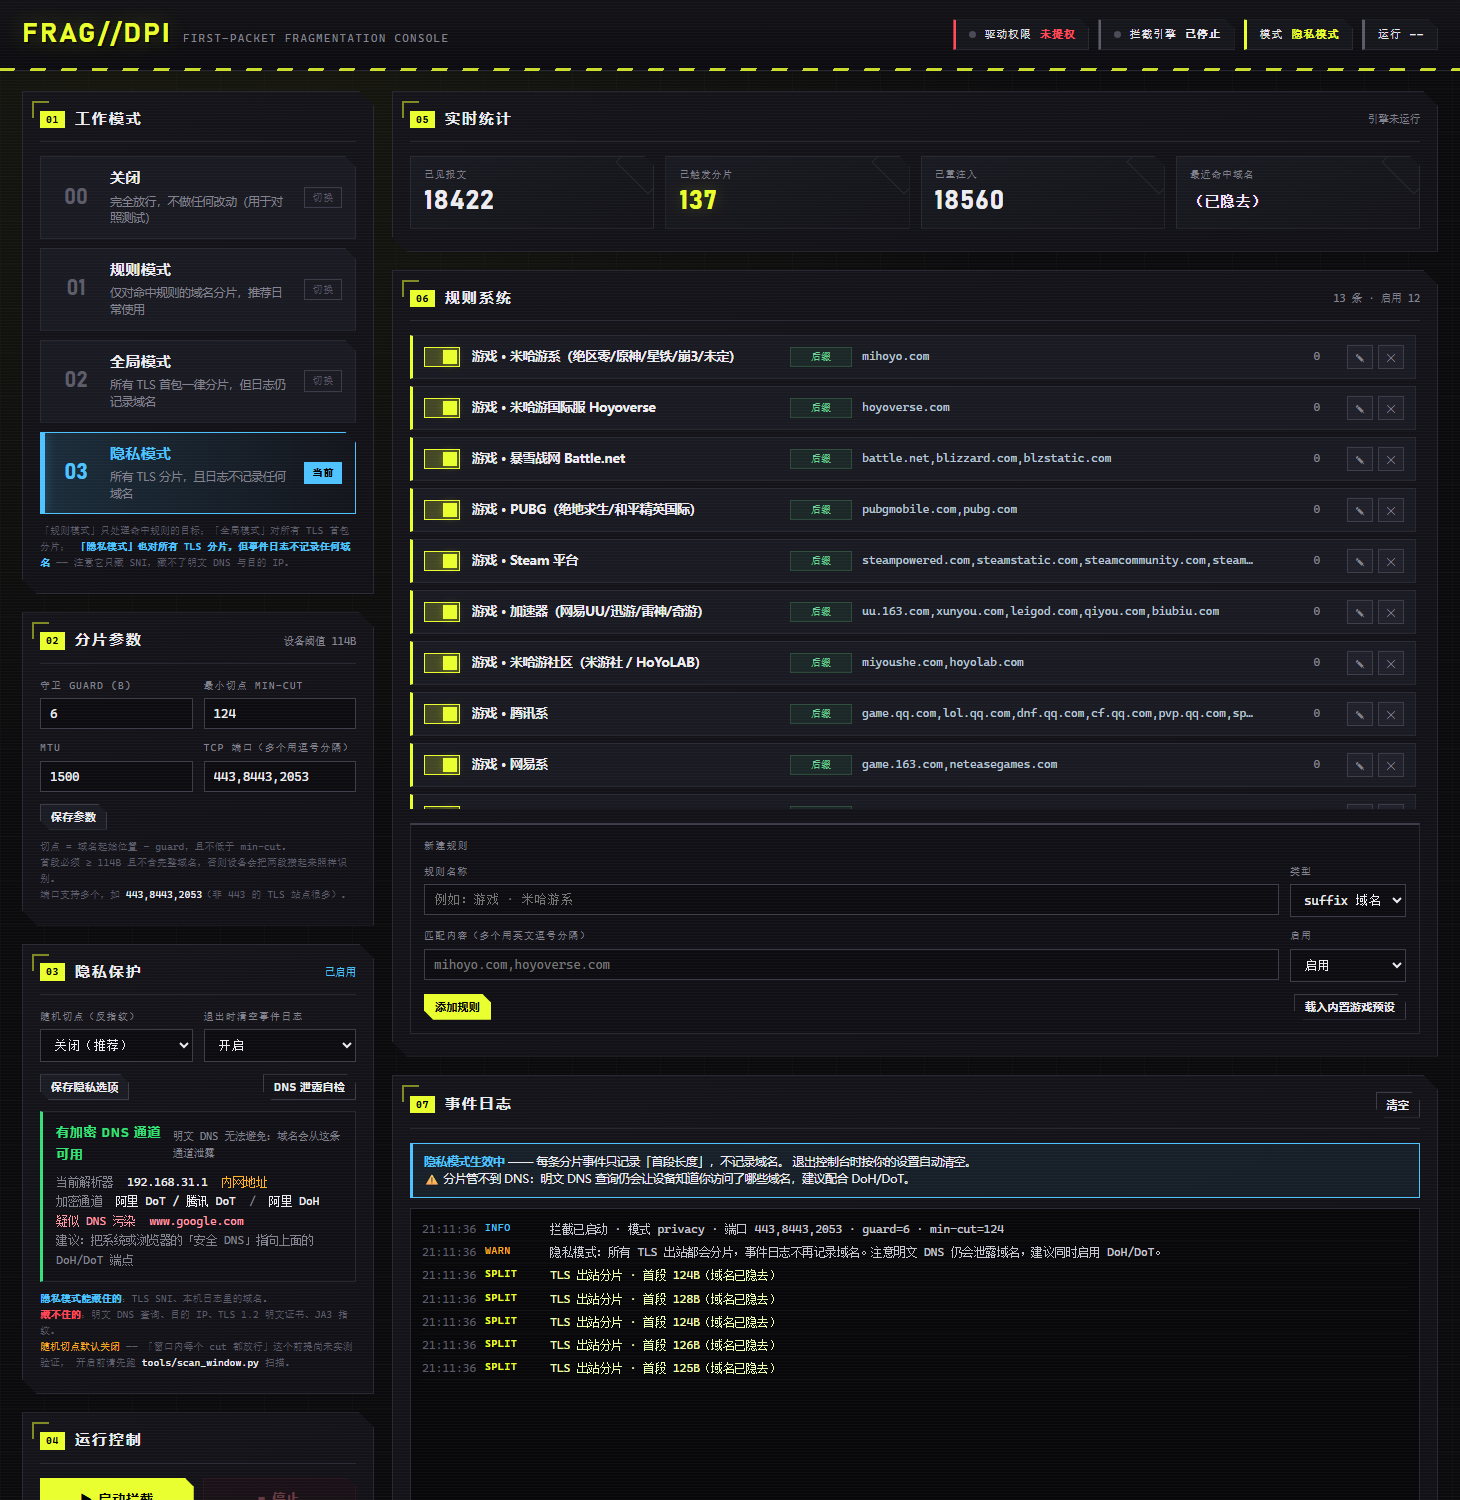
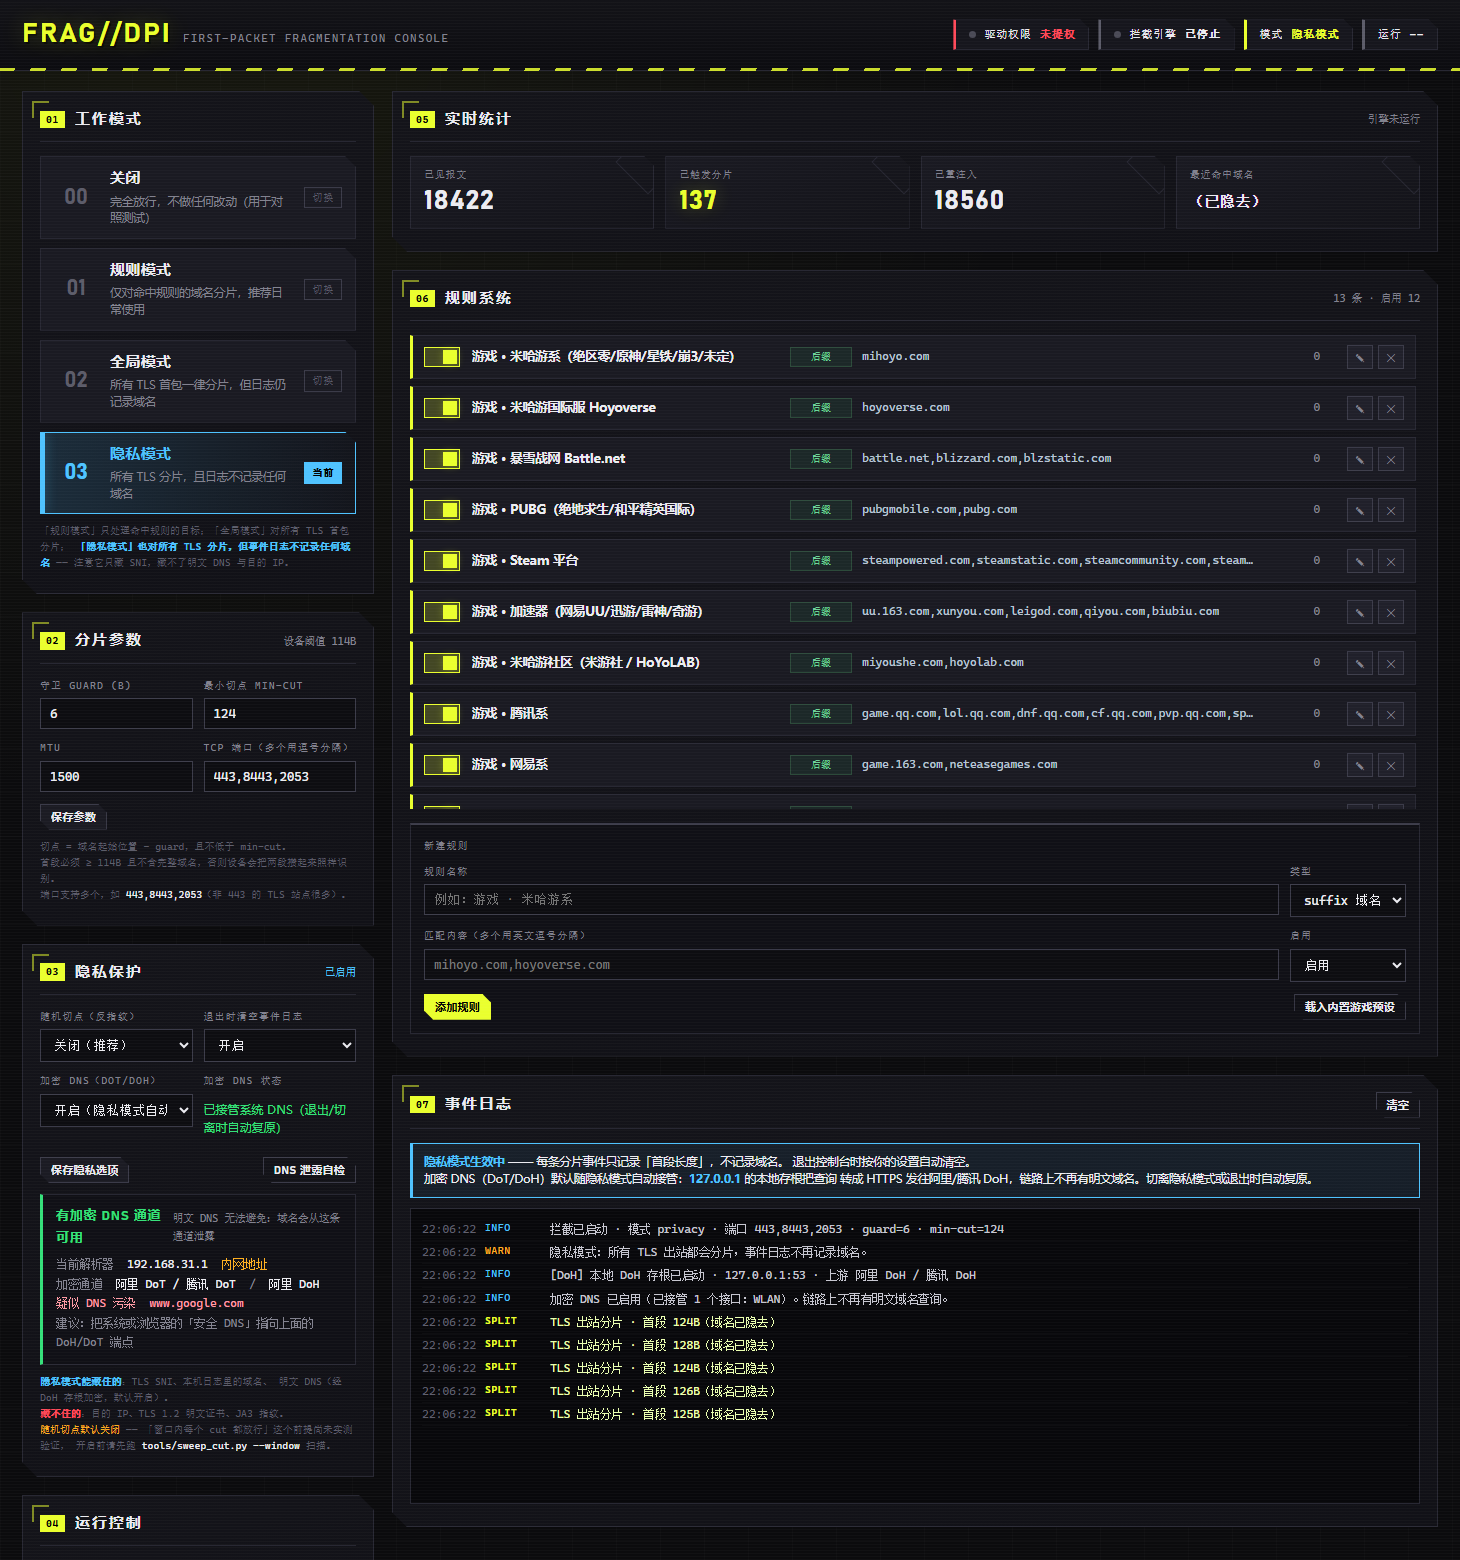
docs: 补隐私模式界面截图，并在 README 里嵌图
截图是用真实控制台（headless Chrome 截取）生成的，展示：
  · 事件日志只有「TLS 出站分片 · 首段 124B（域名已隐去）」
  · 实时统计的「最近命中域名」显示「已隐去」
  · 隐私保护面板：随机切点 / 退出清日志 / 加密 DNS 状态「已接管系统 DNS」
  · DNS 泄露自检结果（DoT+DoH 可用 / 检出疑似污染）

前一张截图是在加「加密 DNS」选项之前截的，已替换。

diff --git a/README.md b/README.md
@@ -383,6 +383,11 @@ GUI 里点「新增规则」；或直接改 `core/fragconfig.json` 的 `ruleset.
 - 退出控制台时自动清空事件日志（可关）
 - **默认自动接管系统 DNS，把明文查询转成加密 DoH**（见下）
 
+![隐私模式](screenshots/privacy_mode.png)
+
+上图：事件日志里只有「首段 124B（域名已隐去）」，实时统计的「最近命中域名」为「已隐去」，
+右下是 DNS 泄露自检结果。
+
 #### 它能藏住什么、藏不住什么
 
 | 泄露通道 | 隐私模式 | 说明 |
